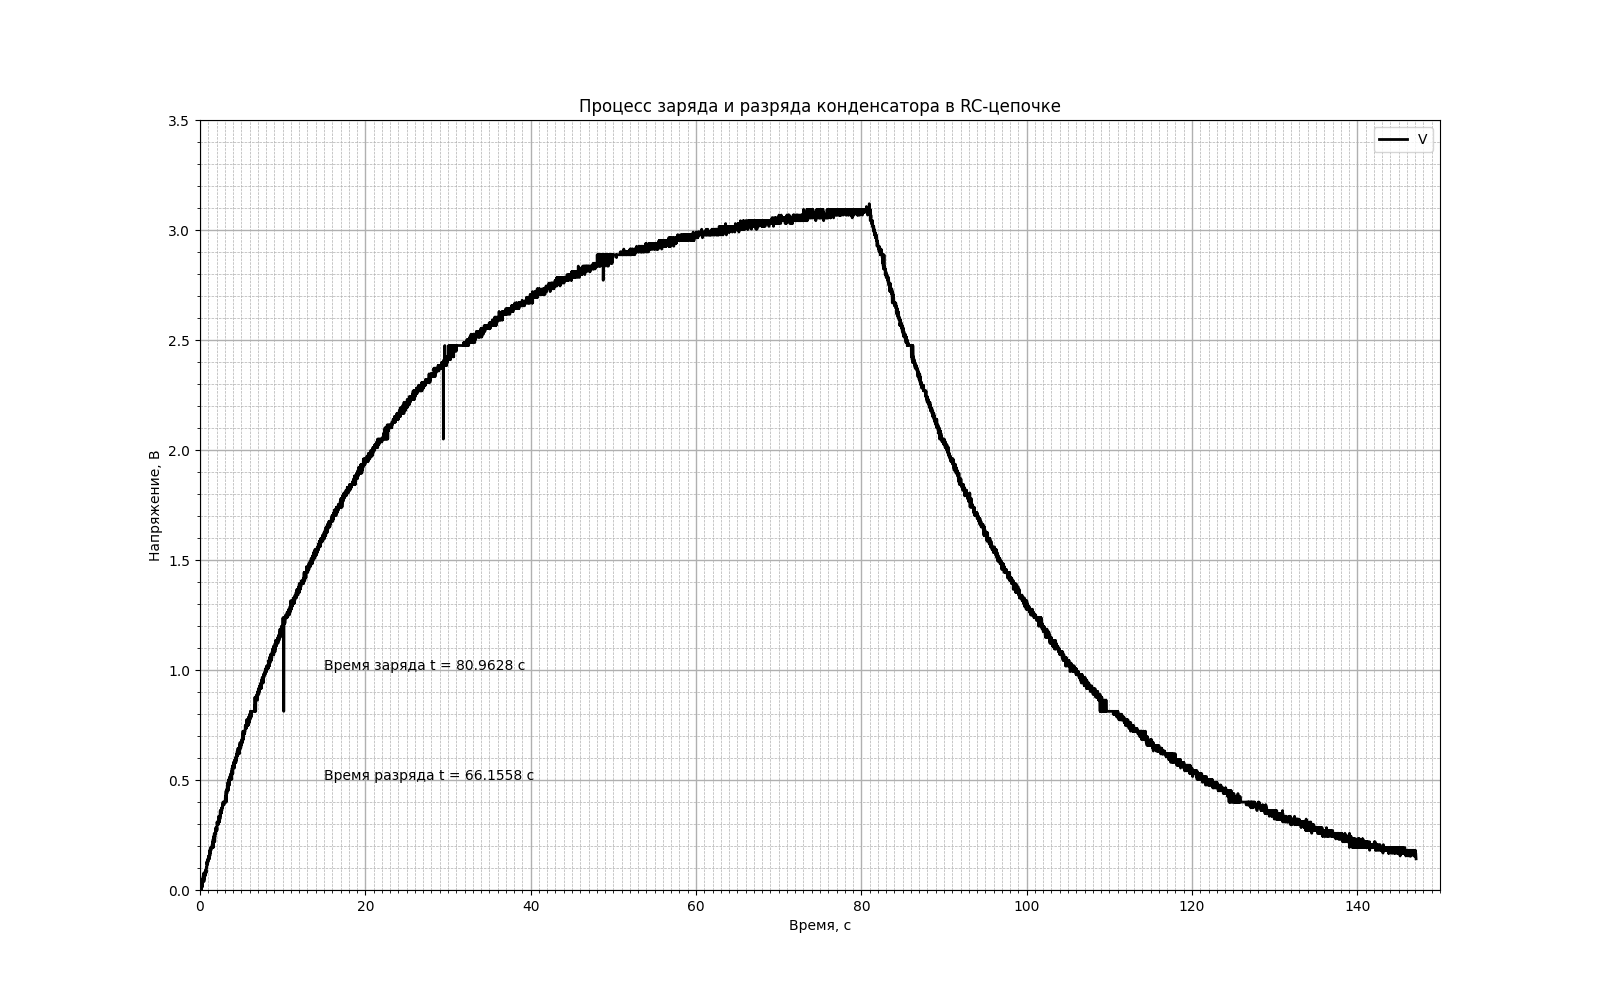
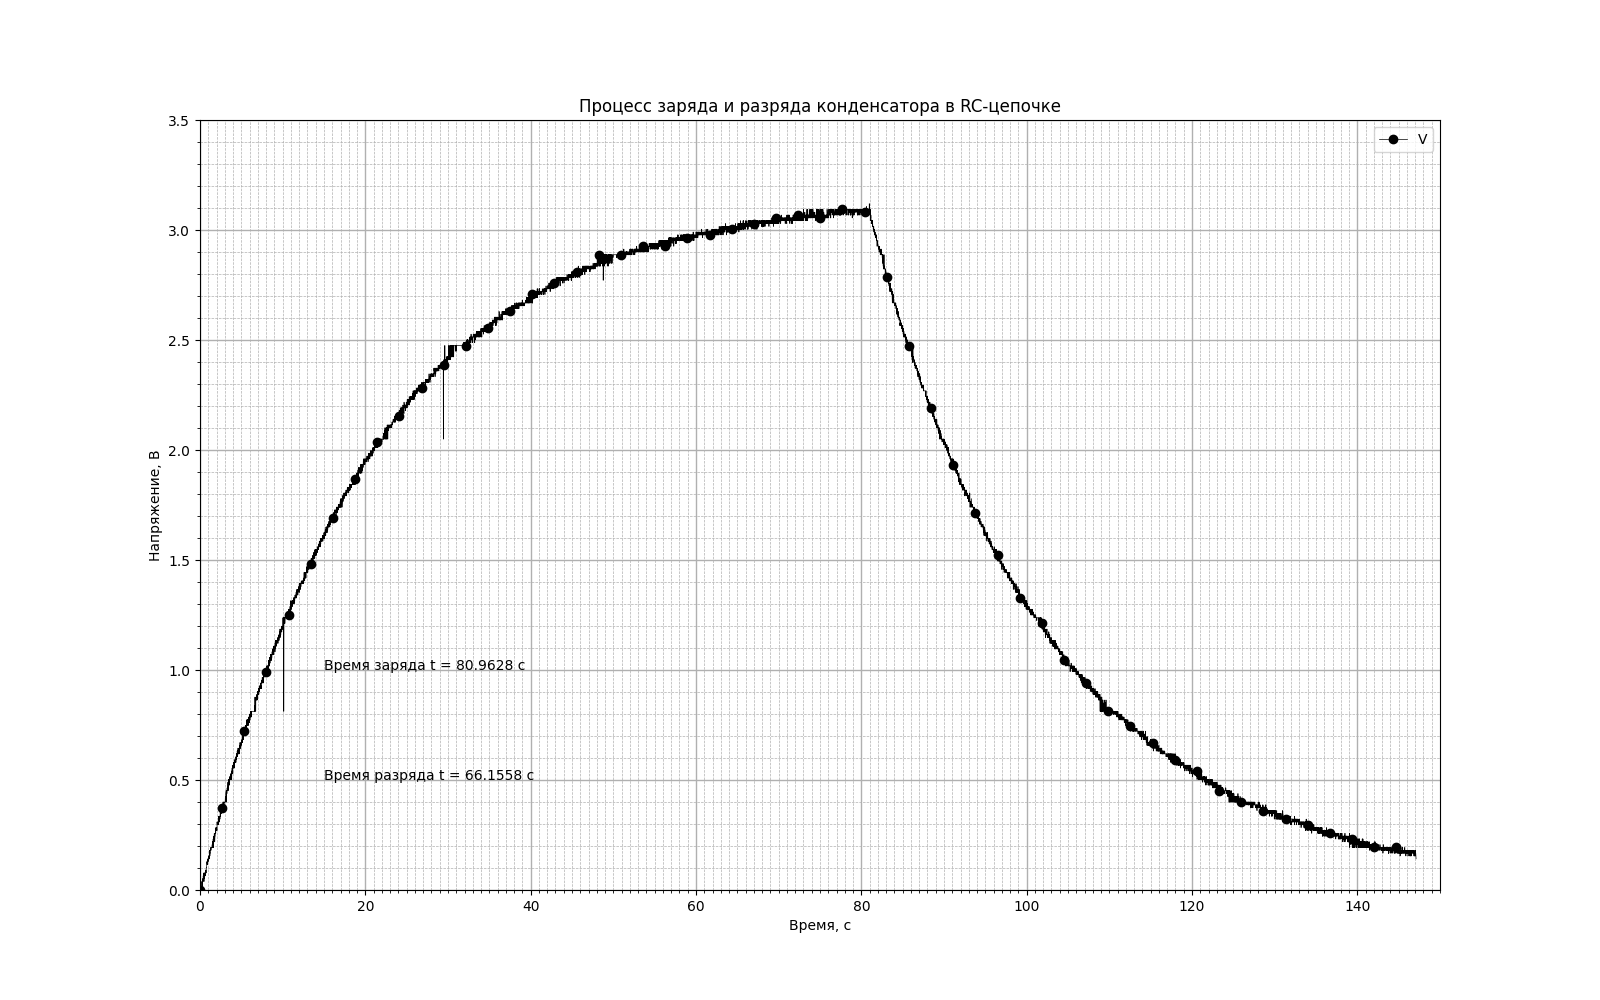
Bye bye

diff --git a/7/plot.py b/7/plot.py
@@ -17,7 +17,7 @@ timeArr = np.arange(size) * tmp[0]
 
 fig, ax = plt.subplots( figsize=(16, 10) )
 
-ax.plot(timeArr, data_array, '-', linewidth=2, color='black')
+ax.plot(timeArr, data_array, 'o', ls="-", linewidth=0.5, color='black', markevery=200 )
 ax.set_xlabel("Время, c")
 ax.set_ylabel("Напряжение, B")
 ax.set_title("Процесс заряда и разряда конденсатора в RC-цепочке")
